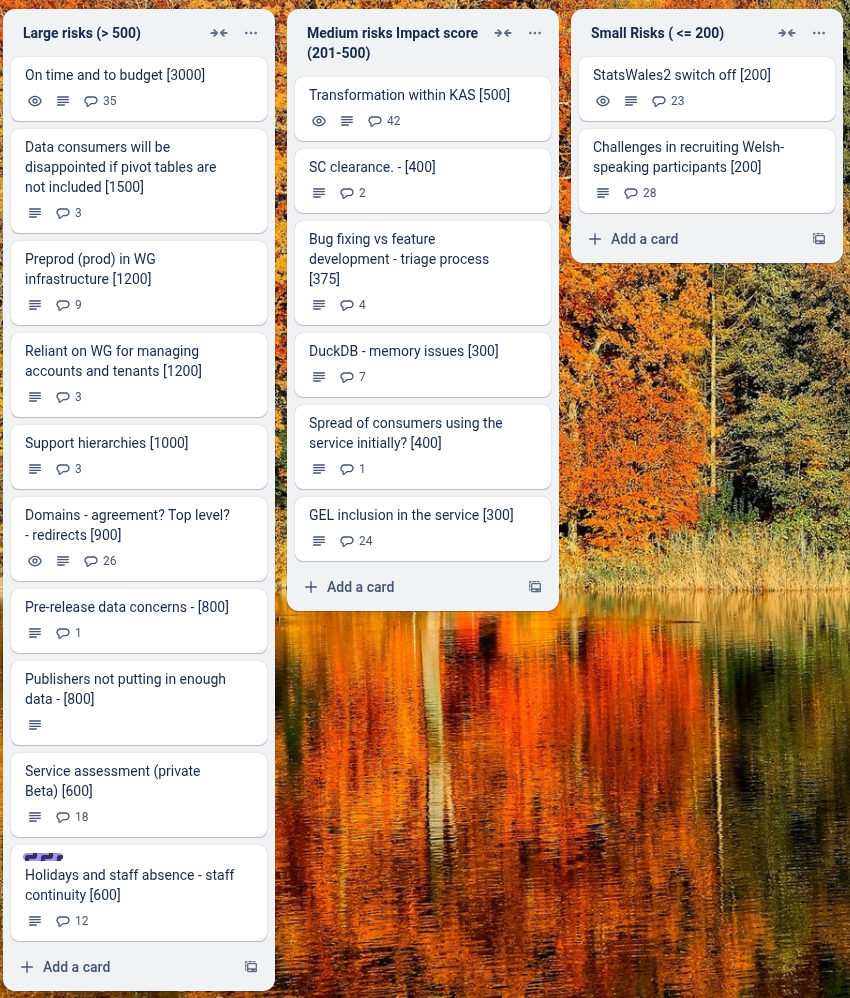
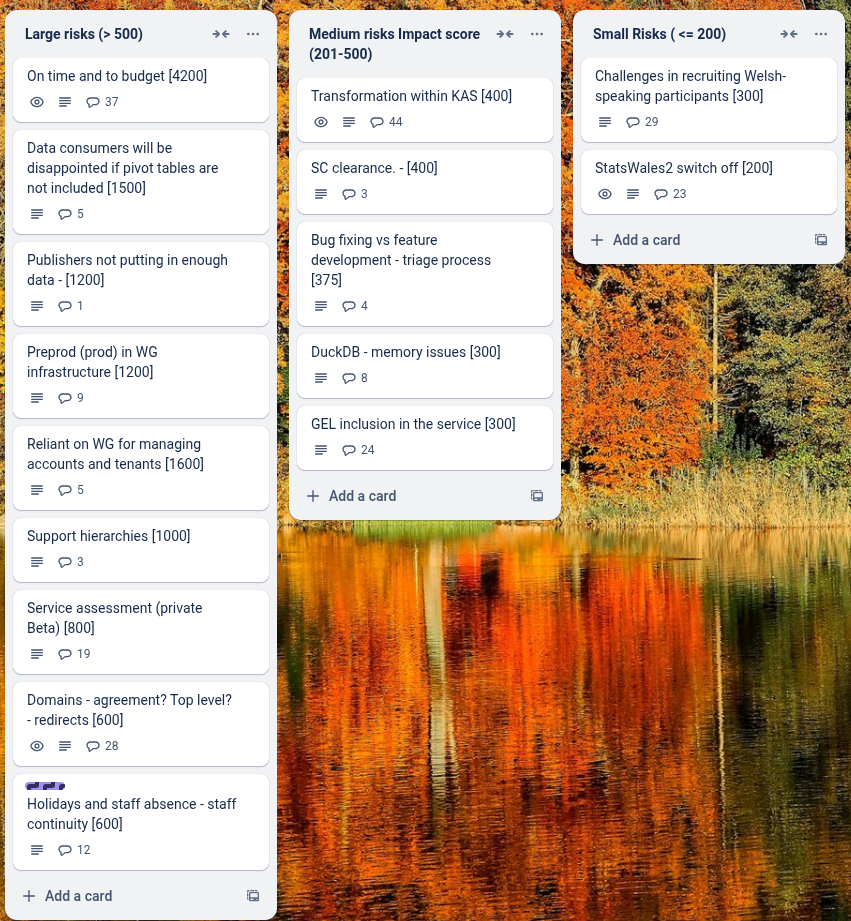
Add in the risk profile graph

diff --git a/content/en/statswales/project-reports/sprint32-mid/index.md b/content/en/statswales/project-reports/sprint32-mid/index.md
@@ -1,10 +1,10 @@
 ---
-title: Sprint 32 - Gecko
+title: Sprint 32-mid - Gecko
 date: 2025-05-27
-description: Sprint report for Sprint 32
+description: Sprint report for Sprint 32-mid
 ---
 
-# Sprint 32 - Gecko
+# Sprint 32-mid - Gecko
 
 ![A picture of a tokay gecko](gecko2.jpg)
 
@@ -64,3 +64,7 @@ These are the goals that we set for this sprint:
 Current table showing project Risks and Issues:
 
 ![Risks and Issues](risksBoard20250527.png)
+
+## Risk profile score
+
+![Risk profile score](riskImpact20250528.png)
